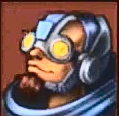
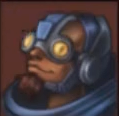
Revert the head-shots to the untouched uploads
Every automatic grade was rejected on look regardless of what the
statistics said; matching the official art's spread and chroma made the
painted faces harsh rather than crisp. Head-shots are graded by hand
from now on, so enhance-racer-art.py no longer touches them by default
and cannot overwrite that work on a later run. Vehicles keep theirs.

--kinds headshot still forces it, and the profile is kept for that.

diff --git a/scripts/enhance-racer-art.py b/scripts/enhance-racer-art.py
@@ -70,6 +70,18 @@ REFERENCE = ["Beast", "Dee", "Driftking", "Hotty", "Rex", "Turboboy", "Twins", "
 MAX_STRETCH = 2.2
 CAST_STRENGTH = 0.8      # how much of the measured colour cast to remove
 
+# Kinds this script will touch unless asked otherwise.
+#
+# Head-shots are NOT in this list. Every automatic grade tried on them was
+# rejected on look, whatever the statistics said — matching the official art's
+# spread and chroma made the painted faces harsh rather than crisp. They are
+# graded by hand instead, so the head-shots in assets-src/racers/ are somebody's
+# deliberate work and this script must not overwrite it on the next run.
+#
+# `--kinds headshot` still forces it, for experimenting. The profile below is
+# kept for that, and because its reasoning is worth not re-deriving.
+DEFAULT_KINDS = ("portrait", "vehicle")
+
 # Per-kind, because the two kinds of art fail differently.
 #
 # A vehicle is a 400px render of a shiny object; it mostly needs its haze
@@ -328,11 +340,19 @@ def main():
     ap.add_argument("names", nargs="*", help="e.g. Arthur_vehicle (default: everything in racers-raw)")
     ap.add_argument("--apply", action="store_true", help="write the files, not just measure")
     ap.add_argument("--out", default=None, help=f"where to write (default: {SRC})")
+    ap.add_argument("--kinds", nargs="+", default=list(DEFAULT_KINDS),
+                    choices=list(PROFILE), help=f"default: {' '.join(DEFAULT_KINDS)}")
     args = ap.parse_args()
 
     if not RAW.exists():
         raise SystemExit(f"no raw captures at {RAW}")
     targets = args.names or sorted(p.stem for p in RAW.glob("*.png"))
+    kept, skipped = [], []
+    for stem in targets:
+        (kept if stem.rsplit("_", 1)[-1] in args.kinds else skipped).append(stem)
+    targets = kept
+    if skipped:
+        print(f"Skipping {len(skipped)} (kind not in --kinds): {', '.join(skipped)}")
 
     refs = {}
     for kind in ("portrait", "headshot", "vehicle"):
